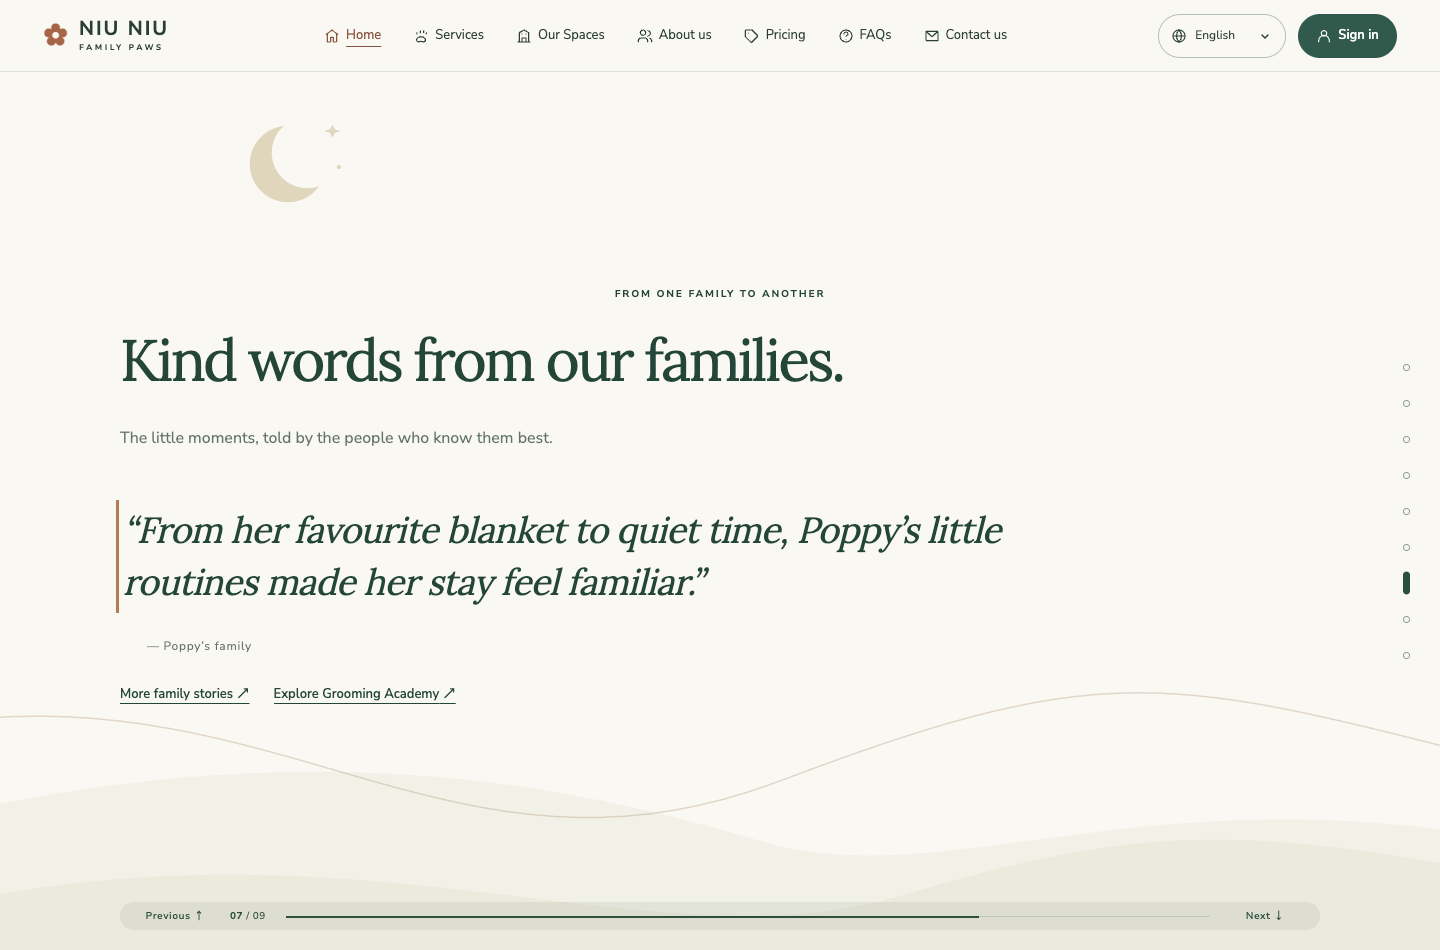
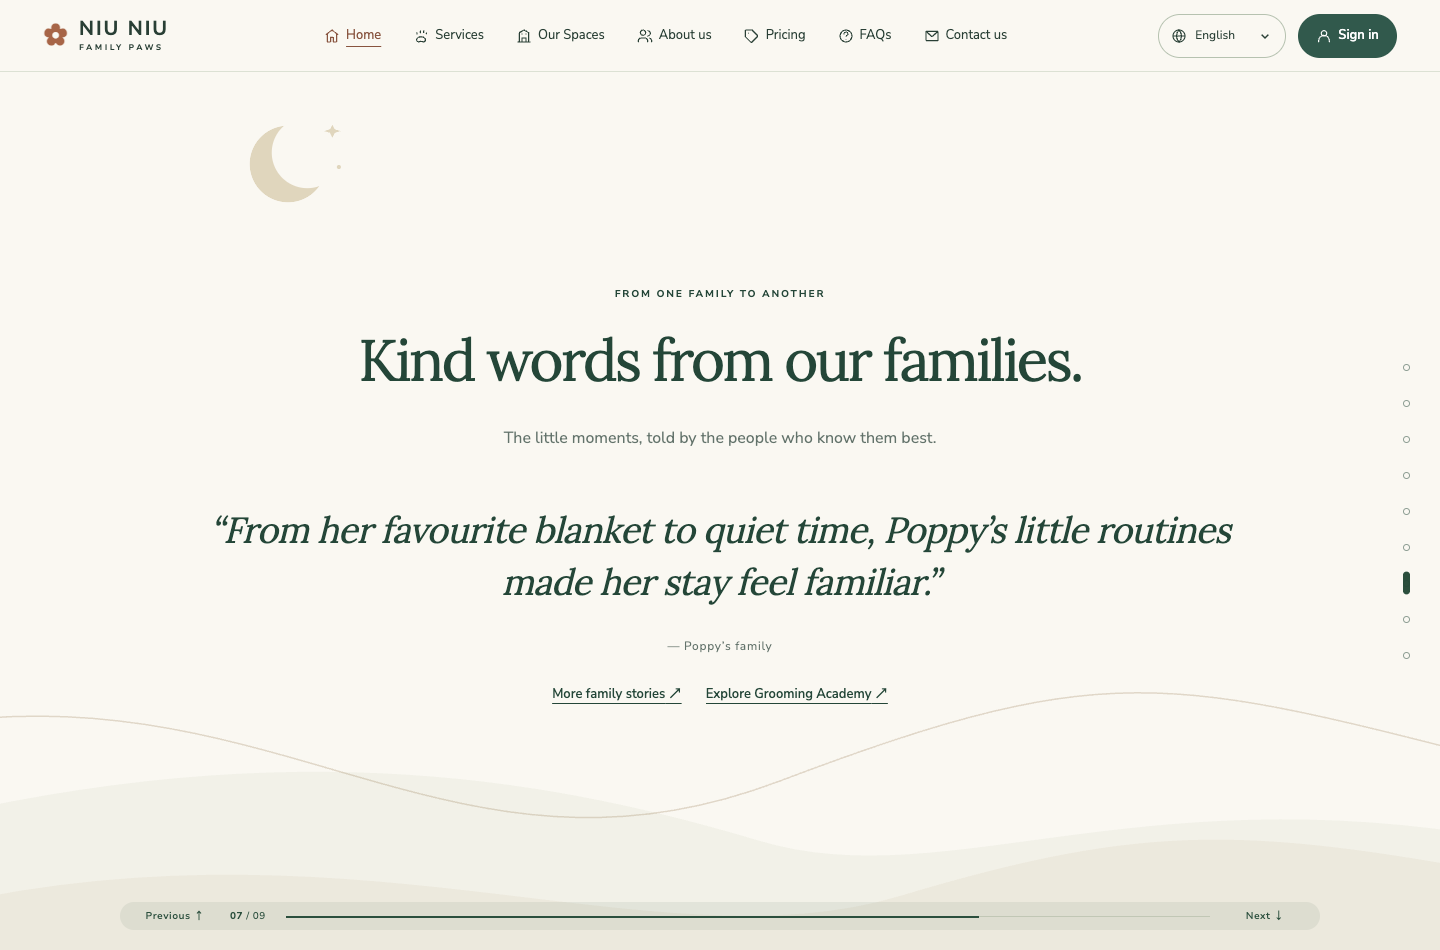
Center the full-width family story composition

diff --git a/tests/browser/marketing-details.spec.ts b/tests/browser/marketing-details.spec.ts
@@ -36,6 +36,30 @@ test('editorial accents, photo captions and footer are centered and unwanted mar
       });
       expect(error).toBeLessThan(0.5);
     }
+    await pose(page, 6);
+    const storyCenters = await page.locator('.home-stories').evaluate((e) => {
+      const errors = [
+        ...e.querySelectorAll(
+          '.home-section-intro > h2,.home-section-intro > p,blockquote,figcaption',
+        ),
+      ].map((copy) => {
+        const r = document.createRange();
+        r.selectNodeContents(copy);
+        const b = r.getBoundingClientRect();
+        return Math.abs(b.x + b.width / 2 - innerWidth / 2);
+      });
+      const links = [...e.querySelectorAll<HTMLElement>(':scope > .text-link')].map((x) =>
+        x.getBoundingClientRect(),
+      );
+      errors.push(
+        Math.abs(
+          (Math.min(...links.map((x) => x.left)) + Math.max(...links.map((x) => x.right))) / 2 -
+            innerWidth / 2,
+        ),
+      );
+      return errors;
+    });
+    for (const error of storyCenters) expect(error).toBeLessThan(0.5);
     const last = page.locator('.number-grid article').last();
     for (const edge of ['top', 'bottom', 'left', 'right'])
       await expect(last).toHaveCSS(`border-${edge}-width`, '0px');
@@ -69,6 +93,17 @@ test('editorial accents, photo captions and footer are centered and unwanted mar
       return errors;
     });
     for (const error of footerErrors) expect(error).toBeLessThan(0.5);
+    await page.goto('/home/#stories');
+    await expect(page.locator('.home-stories')).toHaveAttribute('aria-hidden', 'false');
+    const emptyErrors = await page.locator('.home-stories .story-awaiting p').evaluateAll((es) =>
+      es.map((e) => {
+        const r = document.createRange();
+        r.selectNodeContents(e);
+        const b = r.getBoundingClientRect();
+        return Math.abs(b.x + b.width / 2 - innerWidth / 2);
+      }),
+    );
+    for (const error of emptyErrors) expect(error).toBeLessThan(0.5);
   }
 });
 

diff --git a/apps/web/src/marketing-system.css b/apps/web/src/marketing-system.css
@@ -1845,3 +1845,31 @@ header.marketing-header nav {
   -webkit-text-fill-color: #2b4f3d;
   border-color: #fff;
 }
+
+/* Full-width story copy shares one centered reading axis. */
+.home-stories {
+  text-align: center;
+}
+.home-stories .home-section-intro > p {
+  margin-inline: auto;
+}
+.home-stories .story-quotes blockquote {
+  text-align: center;
+  margin-inline: auto;
+  padding-inline: 0;
+  border-left: 0;
+}
+.marketing-site .home-story.cinematic-story .home-stories .story-quotes blockquote[data-scene-ink] {
+  margin-inline: auto;
+  padding-inline: 0;
+}
+.home-stories .story-quotes figcaption {
+  padding-inline: 0;
+}
+.home-stories > .text-link {
+  margin-inline: 12px;
+}
+.marketing-site .home-story.cinematic-story .home-stories .story-awaiting,
+.home-stories .story-empty-detail {
+  margin-inline: auto;
+}

diff --git a/docs/session-handoff.md b/docs/session-handoff.md
@@ -1,10 +1,10 @@
 ## Marketing alignment, continuous arrow links and contact hover — 2026-11-17
 
-Centered “FROM ONE FAMILY TO ANOTHER” across its chapter, the “Small paws. A growing story.” line, Home/gallery photo captions, and the full footer logo/copy/copyright composition. Removed all borders from the last milestone (“Groomers trained”) and removed the four decorative preparation checkmarks plus unused CSS. Home photo frames now remain level so centered captions align directly under their widths.
+Centered the full “FROM ONE FAMILY TO ANOTHER” chapter (heading, introduction, italic quote, attribution and links) per the owner’s clarification, the “Small paws. A growing story.” line, Home/gallery photo captions, and the full footer logo/copy/copyright composition. Removed all borders from the last milestone (“Groomers trained”) and removed the four decorative preparation checkmarks plus unused CSS. Home photo frames now remain level so centered captions align directly under their widths. The full-width family-story composition uses centered text and removes the asymmetric left quote rule; split-column editorial copy retains left alignment.
 
 Shared marketing text links now use inline text flow inside a44px target rather than separate flex items, giving the label/arrow normal word spacing and one continuous underline. Removed the planning-only gap override; checked all eight marketing routes in English/Chinese at390/1440. Primary marketing button arrow gap is8px; deliberately separate service-card corner arrows remain. Home Contact us hover/focus uses white background, green text and border-box painting, overriding the cinematic transparent text fill so the label stays visible.
 
-Node24 build,41 unit tests and formatting passed. Eight Chrome checks passed: new center/border/checkmark audit, all-page bilingual arrow-link scan, contact hover color/fill, mobile photo scrolling, bilingual chapter fit and existing all-page/footer regressions. Actual localhost Chrome desktop/phone walkthrough completed; review screenshots docs/screenshots/marketing-alignment-*.png. No deployment. Review branch: [polish/marketing-alignment-and-links](https://github.com/Fifiloveniuniu/niu-niu-family-paws/compare/main...polish/marketing-alignment-and-links). Preserve other WIP and final combined deployment boundary.
+Node24 build,41 unit tests and formatting passed. Nine Chrome checks passed across targeted runs: full-section and empty-state centering, quote hierarchy, center/border/checkmark audit, all-page bilingual arrow-link scan, contact hover color/fill, mobile photo scrolling, bilingual chapter fit and existing all-page/footer regressions. Actual localhost Chrome desktop/phone walkthrough completed; review screenshots docs/screenshots/marketing-alignment-*.png. No deployment. Review branch: [polish/marketing-alignment-and-links](https://github.com/Fifiloveniuniu/niu-niu-family-paws/compare/main...polish/marketing-alignment-and-links). Preserve other WIP and final combined deployment boundary.
 
 ## Scissor-linked hair and centered framed icons — 2026-11-17
 

diff --git a/docs/business-owner-guide.md b/docs/business-owner-guide.md
@@ -372,6 +372,6 @@ The hair gathers when the scissors close and spreads when they reopen. Scroll ba
 
 ## Centered finishing details — local preview, 2026-11-17
 
-The family-story eyebrow, growing-story line, photo captions and footer are centered. The last milestone has no border, and preparation steps no longer have decorative checkmarks. Text-and-arrow links have compact spacing and continuous underlines throughout the marketing site. Hover or keyboard-focus Contact us on Home for a white button with green text. This is locally validated and not deployed.
+The full family-story section (heading, introduction, quote, attribution and links), growing-story line, photo captions and footer are centered. The last milestone has no border, and preparation steps no longer have decorative checkmarks. Text-and-arrow links have compact spacing and continuous underlines throughout the marketing site. Hover or keyboard-focus Contact us on Home for a white button with green text. This is locally validated and not deployed.
 
-家长故事的小标题、成长故事短句、照片说明和页脚已居中。最后一个数字项目移除了边框，来访准备步骤移除了装饰性勾号。营销网站中的文字与箭头间距更紧凑，下划线连续。首页“联系我们”按钮在悬停或键盘聚焦时显示为白底绿字。目前仅为本地更新，尚未发布。
+家长故事的整段内容（标题、介绍、引文、署名与链接）、成长故事短句、照片说明和页脚已居中。最后一个数字项目移除了边框，来访准备步骤移除了装饰性勾号。营销网站中的文字与箭头间距更紧凑，下划线连续。首页“联系我们”按钮在悬停或键盘聚焦时显示为白底绿字。目前仅为本地更新，尚未发布。
